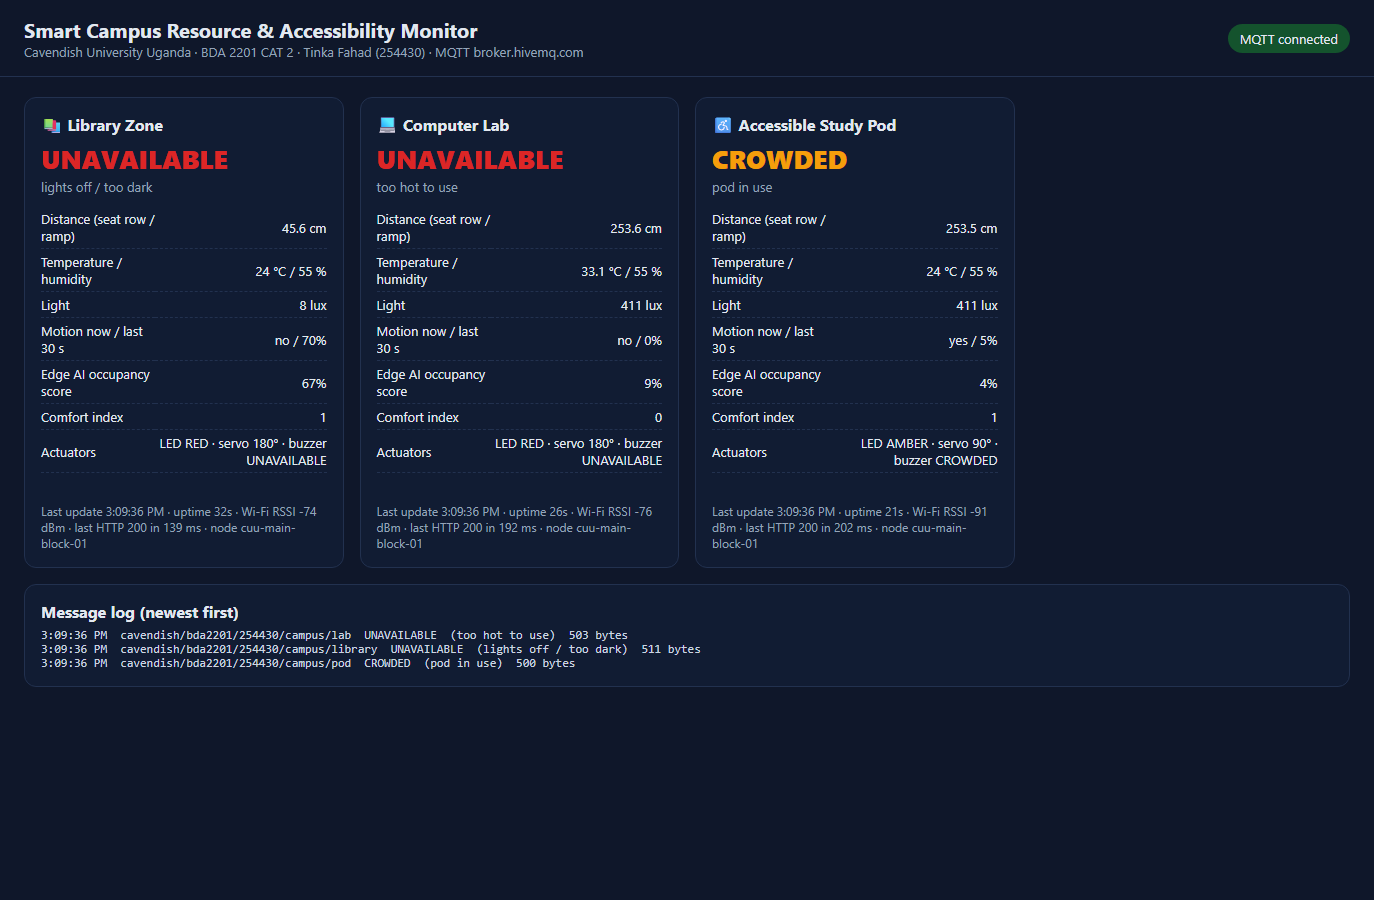
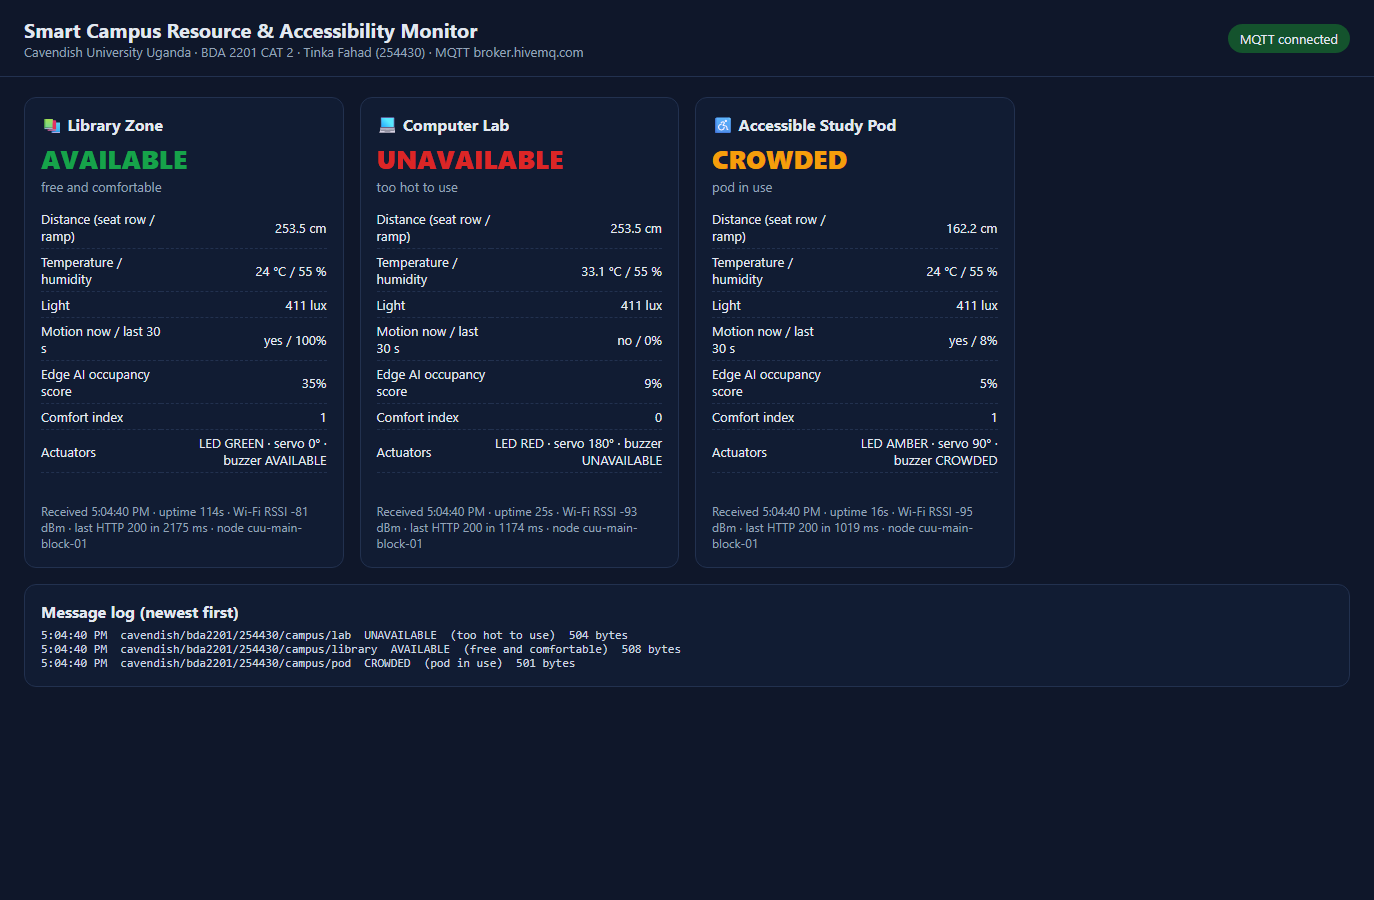
Dashboard: label message arrival time, add live dashboard screenshot

diff --git a/dashboard/index.html b/dashboard/index.html
@@ -71,7 +71,7 @@
       (faults.length ? '⚠ Sensor fault: ' + faults.join(', ') + ' — decision made with the remaining sensors. ' : '') +
       (ai.spike_detected ? '⚠ Sudden spike ignored by the anomaly filter.' : '');
     card.querySelector('.meta').textContent =
-      `Last update ${new Date().toLocaleTimeString()} · uptime ${p.uptime_s}s · Wi-Fi RSSI ${n.rssi_dbm} dBm · last HTTP ${n.last_http_code || '-'} in ${n.last_http_ms || '-'} ms · node ${p.node}`;
+      `Received ${new Date().toLocaleTimeString()} · uptime ${p.uptime_s}s · Wi-Fi RSSI ${n.rssi_dbm} dBm · last HTTP ${n.last_http_code || '-'} in ${n.last_http_ms || '-'} ms · node ${p.node}`;
   }
 
   const client = mqtt.connect('wss://broker.hivemq.com:8884/mqtt', {
